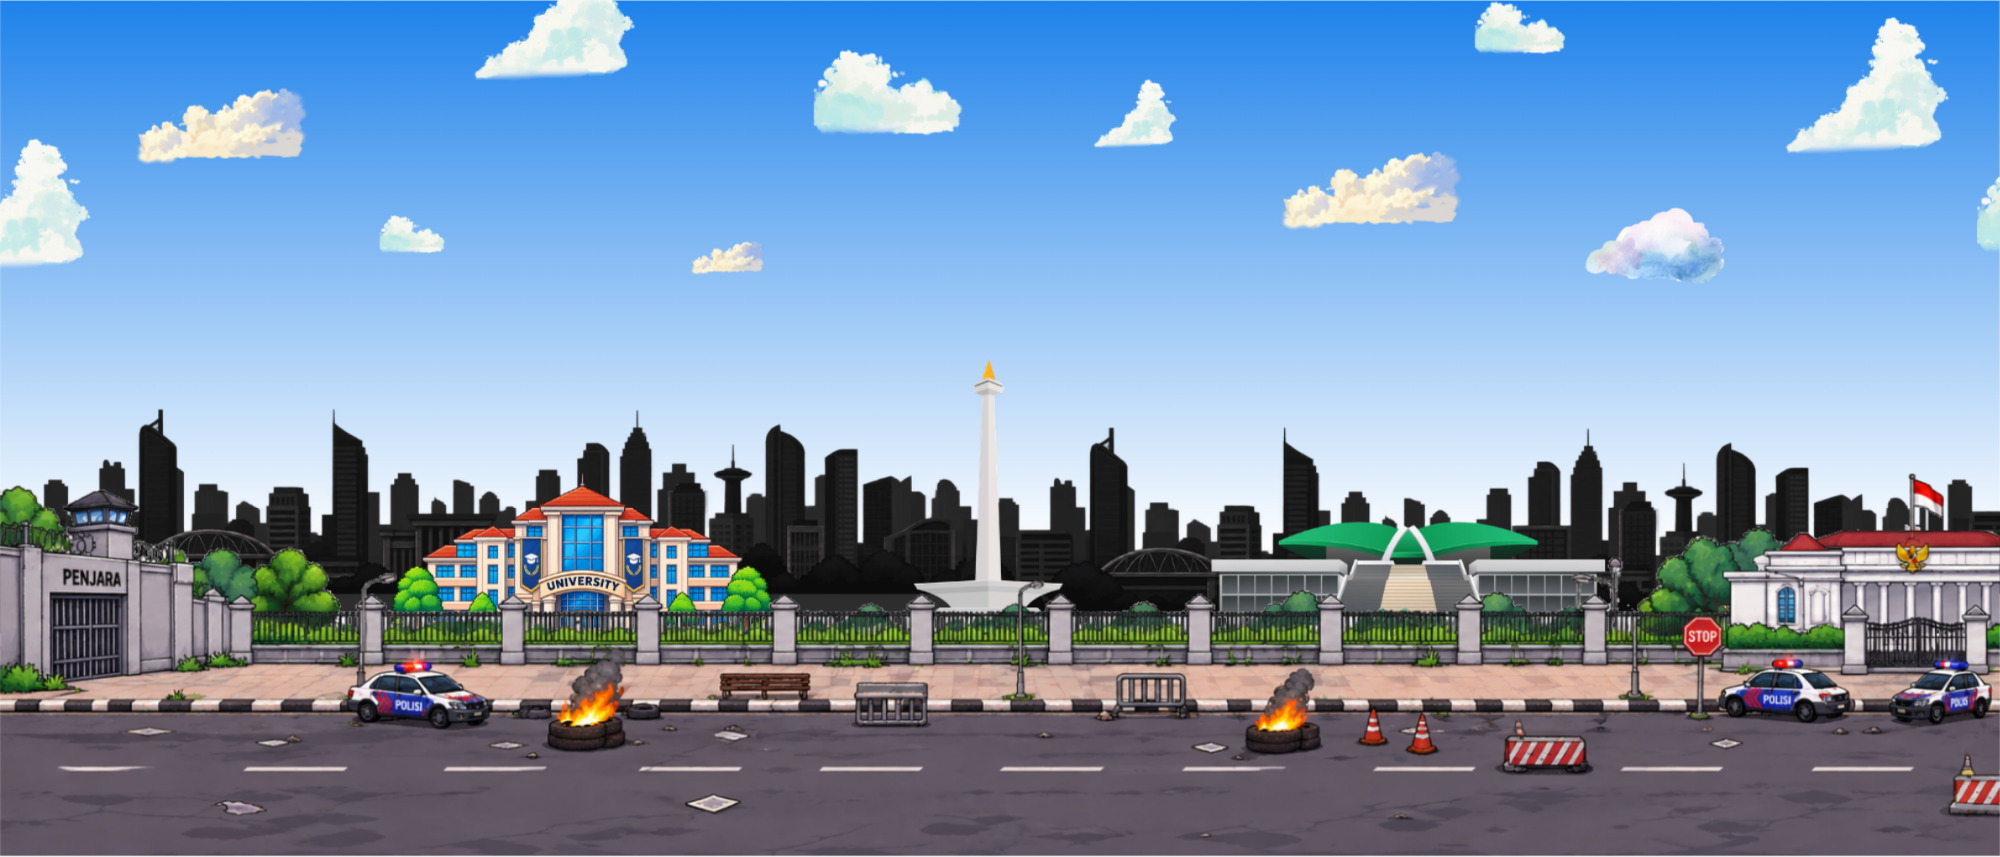
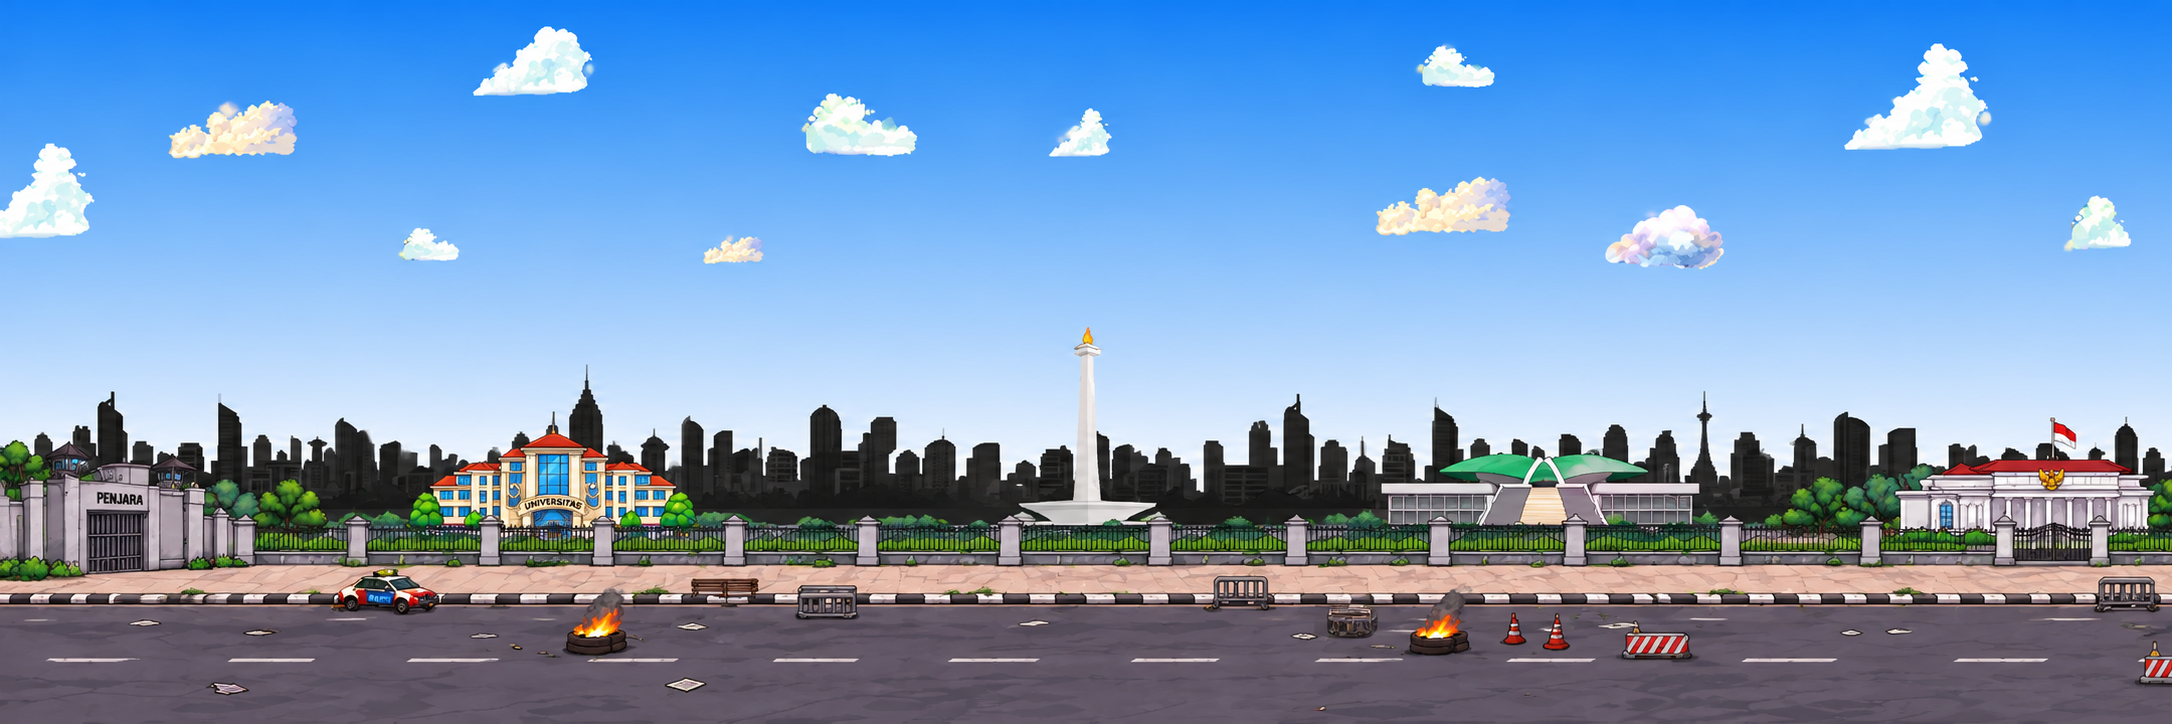
feat: implement 5 continuous panorama stages (bg-1 to bg-5) with dynamic camera tracking and landmark indicators

diff --git a/src/components/Arena.tsx b/src/components/Arena.tsx
@@ -3,6 +3,22 @@ import { VIPS, type Vip } from '../data'
 import { useGame } from '../store'
 import VipAvatar from './VipAvatar'
 
+// Daftar 5 background panoramik dari Barat (Penjara) hingga Timur (Istana Negara)
+const BG_STAGES = [
+  { id: 'bg-1', name: 'Penjara', src: '/assets/backgrounds/bg-1.png' },
+  { id: 'bg-2', name: 'Universitas', src: '/assets/backgrounds/bg-2.png' },
+  { id: 'bg-3', name: 'Silang Monas', src: '/assets/backgrounds/bg-3.png' },
+  { id: 'bg-4', name: 'Gedung DPR / MPR', src: '/assets/backgrounds/bg-4.png' },
+  { id: 'bg-5', name: 'Istana Negara', src: '/assets/backgrounds/bg-5.png' },
+]
+
+// Dimensi matematika dunia horizontal:
+// Setiap panel 2000x857 pada tinggi 288px memiliki lebar alami 288 * (2000/857) = 672px
+const PANEL_WIDTH = 672
+const TOTAL_WORLD_WIDTH = PANEL_WIDTH * 5 // 3360px
+const VIEWPORT_WIDTH = 540
+const MAX_SCROLL = TOTAL_WORLD_WIDTH - VIEWPORT_WIDTH // 2820px
+
 const MAHASISWA_SPRITES = {
   merah: '/assets/characters/mahasiswa-merah.png',
   biru: '/assets/characters/mahasiswa-biru.png',
@@ -13,7 +29,7 @@ const POLISI_SPRITE = '/assets/characters/polisi-w-tameng.png'
 interface MahasiswaSpec {
   id: string
   sprite: string
-  /** Jarak sisi kanan gambar (bagian depan mahasiswa) dari titik bentrok (px) */
+  /** Jarak sisi kanan gambar dari titik bentrok (px) */
   right: number
   /** Posisi vertikal kaki dari bawah arena (px) */
   bottom: number
@@ -43,28 +59,27 @@ interface PolisiSpec {
   brightness: number
   /** Delay animasi dorong */
   delay: number
-  /** Jarak dorongan maju ke kiri (px, bernilai negatif) */
+  /** Jarak dorongan maju ke kiri (px) */
   lunge: number
 }
 
 // Barisan Mahasiswa (Kiri -> mendorong ke Kanan, menghadap kanan)
-// Disusun 3 lapis kedalaman (Belakang, Tengah, Depan) agar tampak berbaris rapat
 const MAHASISWA_UNITS: MahasiswaSpec[] = [
-  // Lapis Belakang (barisan ke-3 di sisi dalam jalan)
+  // Lapis Belakang
   { id: 'm-b1', sprite: MAHASISWA_SPRITES.hijau, right: 10, bottom: 26, height: 112, z: 10, brightness: 0.76, delay: 0.05, lunge: 9 },
   { id: 'm-b2', sprite: MAHASISWA_SPRITES.merah, right: 48, bottom: 28, height: 106, z: 10, brightness: 0.76, delay: 0.14, lunge: 8 },
   { id: 'm-b3', sprite: MAHASISWA_SPRITES.biru, right: 86, bottom: 26, height: 108, z: 10, brightness: 0.74, delay: 0.22, lunge: 7 },
   { id: 'm-b4', sprite: MAHASISWA_SPRITES.hijau, right: 122, bottom: 28, height: 112, z: 10, brightness: 0.72, delay: 0.3, lunge: 6 },
   { id: 'm-b5', sprite: MAHASISWA_SPRITES.merah, right: 164, bottom: 26, height: 106, z: 10, brightness: 0.7, delay: 0.38, lunge: 6 },
 
-  // Lapis Tengah (barisan ke-2)
+  // Lapis Tengah
   { id: 'm-m1', sprite: MAHASISWA_SPRITES.biru, right: -2, bottom: 14, height: 116, z: 20, brightness: 0.88, delay: 0.02, lunge: 11 },
   { id: 'm-m2', sprite: MAHASISWA_SPRITES.hijau, right: 30, bottom: 15, height: 122, z: 20, brightness: 0.88, delay: 0.1, lunge: 10 },
   { id: 'm-m3', sprite: MAHASISWA_SPRITES.merah, right: 72, bottom: 14, height: 116, z: 20, brightness: 0.86, delay: 0.18, lunge: 9 },
   { id: 'm-m4', sprite: MAHASISWA_SPRITES.biru, right: 110, bottom: 15, height: 116, z: 20, brightness: 0.84, delay: 0.26, lunge: 8 },
   { id: 'm-m5', sprite: MAHASISWA_SPRITES.hijau, right: 146, bottom: 14, height: 120, z: 20, brightness: 0.82, delay: 0.34, lunge: 7 },
 
-  // Lapis Depan (ujung tombak bentrokan langsung dengan tameng polisi)
+  // Lapis Depan
   { id: 'm-f1', sprite: MAHASISWA_SPRITES.merah, right: -8, bottom: 2, height: 124, z: 32, brightness: 1, delay: 0, lunge: 13 },
   { id: 'm-f2', sprite: MAHASISWA_SPRITES.biru, right: 24, bottom: 2, height: 122, z: 31, brightness: 1, delay: 0.07, lunge: 11 },
   { id: 'm-f3', sprite: MAHASISWA_SPRITES.hijau, right: 56, bottom: 3, height: 128, z: 30, brightness: 0.98, delay: 0.15, lunge: 10 },
@@ -73,7 +88,6 @@ const MAHASISWA_UNITS: MahasiswaSpec[] = [
 ]
 
 // Barisan Polisi Bertameng (Kanan -> menahan & mendorong ke Kiri, menghadap kiri)
-// Catatan: sprite polisi memiliki ruang transparan ~32px di depan tameng, sehingga left: -34 menempatkan tameng tepat di x = 0
 const POLISI_UNITS: PolisiSpec[] = [
   // Lapis Belakang
   { id: 'p-b1', left: -14, bottom: 26, height: 108, z: 11, brightness: 0.74, delay: 0.05, lunge: -8 },
@@ -89,7 +103,7 @@ const POLISI_UNITS: PolisiSpec[] = [
   { id: 'p-m4', left: 78, bottom: 15, height: 114, z: 19, brightness: 0.84, delay: 0.26, lunge: -7 },
   { id: 'p-m5', left: 112, bottom: 14, height: 114, z: 18, brightness: 0.82, delay: 0.34, lunge: -6 },
 
-  // Lapis Depan (dinding barikade tameng utama)
+  // Lapis Depan
   { id: 'p-f1', left: -34, bottom: 1, height: 122, z: 33, brightness: 1, delay: 0, lunge: -12 },
   { id: 'p-f2', left: 0, bottom: 1, height: 122, z: 31, brightness: 1, delay: 0.07, lunge: -10 },
   { id: 'p-f3', left: 34, bottom: 2, height: 122, z: 30, brightness: 0.98, delay: 0.15, lunge: -9 },
@@ -99,7 +113,7 @@ const POLISI_UNITS: PolisiSpec[] = [
 
 function VipColumn({ side, panic }: { side: 'opp' | 'gov'; panic: boolean }) {
   const list = VIPS.filter((v) => v.side === side)
-  const pos = side === 'opp' ? { left: '1.2%' } : { right: '1.2%' }
+  const pos = side === 'opp' ? { left: '1.5%' } : { right: '1.5%' }
   return (
     <div
       className="absolute top-2 bottom-7 z-40 flex flex-col justify-around items-center pointer-events-none"
@@ -113,7 +127,7 @@ function VipColumn({ side, panic }: { side: 'opp' | 'gov'; panic: boolean }) {
           transition={{ repeat: Infinity, duration: panic ? 0.25 : 2 }}
         >
           <VipAvatar vip={v} size={36} />
-          <div className="text-[8px] font-bold text-center leading-none mt-0.5 bg-black/75 border border-white/20 rounded px-1 py-0.5">
+          <div className="text-[8px] font-bold text-center leading-none mt-0.5 bg-black/80 border border-white/20 rounded px-1 py-0.5 shadow">
             {v.name.split(' ').slice(-1)[0]}
           </div>
         </motion.div>
@@ -237,35 +251,63 @@ function Formation() {
   )
 }
 
+const getLocation = (line: number) => {
+  if (line < 18) return { name: 'Penjara (Oposisi Terdesak!)', tag: '🔒 PENJARA' }
+  if (line < 38) return { name: 'Kampus Universitas', tag: '🎓 KAMPUS' }
+  if (line < 62) return { name: 'Silang Monas (Bentrokan Pusat)', tag: '🏛 MONAS' }
+  if (line < 82) return { name: 'Gedung DPR / MPR', tag: '🏛 GEDUNG DPR' }
+  return { name: 'Istana Negara (Pemerintah Terdesak!)', tag: '👑 ISTANA NEGARA' }
+}
+
 export default function Arena() {
   const { line, tapFx } = useGame()
-  const clash = 18 + line * 0.64 // posisi bentrokan dalam kontainer 150%
+
+  // Posisi kamera (geser horizon 0 s/d 2820px) mengikuti garis 0 s/d 100
+  const cameraX = (line / 100) * MAX_SCROLL
+
+  // Titik bentrokan di dalam dunia panjang (bergerak dari x=270 di Penjara ke x=3090 di Istana)
+  const clashX = 270 + cameraX
+
   const panicGov = line > 70
   const panicOpp = line < 30
+  const location = getLocation(line)
 
   return (
     <div className="h-full relative overflow-hidden bg-sky-300">
-      {/* Dunia Arena 150% Lebar Layar dengan Background Jalanan Kota */}
+      {/* Tokoh VIP di Sisi Kiri & Kanan Layar (Pinned Commander Pillars) */}
+      <VipColumn side="opp" panic={panicOpp} />
+      <VipColumn side="gov" panic={panicGov} />
+
+      {/* Dunia Arena Panjang (3360px) Berisi 5 Background Panoramik Bersambung */}
       <motion.div
-        className="absolute inset-y-0 left-0 bg-no-repeat"
-        style={{
-          width: '150%',
-          backgroundImage: "url('/assets/backgrounds/bg.png')",
-          backgroundSize: 'cover',
-          backgroundPosition: 'center bottom',
-        }}
-        animate={{ x: `${-(line / 100) * 33.333}%` }}
-        transition={{ type: 'spring', stiffness: 60, damping: 16 }}
+        className="absolute inset-y-0 left-0"
+        style={{ width: TOTAL_WORLD_WIDTH }}
+        animate={{ x: -cameraX }}
+        transition={{ type: 'spring', stiffness: 55, damping: 16 }}
       >
-        {/* Tokoh VIP di Belakang Barisan Kiri & Kanan */}
-        <VipColumn side="opp" panic={panicOpp} />
-        <VipColumn side="gov" panic={panicGov} />
+        {/* Rangkaian 5 Background: Penjara -> Kampus -> Monas -> DPR -> Istana */}
+        <div className="flex h-full select-none" style={{ width: TOTAL_WORLD_WIDTH }}>
+          {BG_STAGES.map((bg) => (
+            <img
+              key={bg.id}
+              src={bg.src}
+              alt={bg.name}
+              draggable={false}
+              className="h-full block select-none pointer-events-none shrink-0"
+              style={{
+                width: PANEL_WIDTH,
+                objectFit: 'cover',
+                objectPosition: 'center bottom',
+              }}
+            />
+          ))}
+        </div>
 
         {/* Titik Bentrokan Barisan Mahasiswa vs Polisi Bertameng */}
         <motion.div
           className="absolute bottom-[3%]"
-          animate={{ left: `${clash}%` }}
-          transition={{ type: 'spring', stiffness: 80, damping: 14 }}
+          style={{ left: clashX }}
+          transition={{ type: 'spring', stiffness: 75, damping: 14 }}
         >
           <Formation />
 
@@ -297,10 +339,14 @@ export default function Arena() {
         </motion.div>
       </motion.div>
 
-      {/* Label Indikator Arah Dorongan di Bawah Jalan */}
-      <div className="absolute bottom-1 inset-x-3 z-40 flex justify-between text-[9px] text-white/85 font-bold drop-shadow">
-        <span className="bg-black/45 px-1.5 py-0.5 rounded">◀ Desak ke Kiri (Pemerintah)</span>
-        <span className="bg-black/45 px-1.5 py-0.5 rounded">Desak ke Kanan (Oposisi) ▶</span>
+      {/* Bar Indikator Lokasi & Navigasi Arah Dorongan di Bawah Layar */}
+      <div className="absolute bottom-1 inset-x-2 z-40 flex items-center justify-between text-[9px] text-white/90 font-bold drop-shadow pointer-events-none">
+        <span className="bg-black/60 px-1.5 py-0.5 rounded border border-blue-500/40">◀ Penjara</span>
+        <span className="bg-black/80 px-2 py-0.5 rounded-full border border-yellow-400/60 text-yellow-300 shadow flex items-center gap-1">
+          <span>📍</span>
+          <span>{location.name}</span>
+        </span>
+        <span className="bg-black/60 px-1.5 py-0.5 rounded border border-red-500/40">Istana ▶</span>
       </div>
     </div>
   )

diff --git a/PROGRESS.md b/PROGRESS.md
@@ -41,10 +41,19 @@ Game interaktif vertikal 9:16 untuk TikTok Live berbasis *1D Horizontal Tug-of-W
    - Baris 2: Barometer dinamis persentase dorongan (`X% OPOSISI |⚡| Y% PEMERINTAH`).
    - Baris 3: Marquee merah komentar Pemerintah (`2 ...`) reverse direction.
 4. **Zona 4: Arena Bentrokan Kiri vs Kanan (30%) - `src/components/Arena.tsx`**
-   - Lebar dunia arena dibuat **150%** dari lebar layar dengan *Dynamic Sliding Camera* yang bergeser mengikuti garis dorongan.
-   - 6 Tokoh VIP berdiri di barisan belakang (Windah, Pandji, Ferry di kiri; Prabowo, Teddy, Bahlil di kanan). VIP panik/gemetar ketika barisan kubunya terdesak (>70% atau <30%).
-   - Barisan massa pendemo (bendera/toa) beradu fisik dengan barisan polisi huru-hara berperisai (riot shield).
-   - Efek visual status: Status Kebal (Shield Teddy), Lemah (Debuff Pandji), Lambat (Slow Bahlil).
+   - **Panorama 5 Landmark Bersambung (3360px):** Menggunakan 5 background horizontal berurutan:
+     - `bg-1.png`: **Penjara** (Kubu Oposisi terdesak / kalah)
+     - `bg-2.png`: **Kampus Universitas** (Basis mahasiswa pendemo)
+     - `bg-3.png`: **Silang Monas** (Titik awal bentrokan pusat 50%)
+     - `bg-4.png`: **Gedung DPR / MPR** (Basis kebijakan pemerintah)
+     - `bg-5.png`: **Istana Negara** (Kubu Pemerintah terdesak / kalah)
+   - Kamera meluncur dinamis (*smooth spring camera*) mengikuti pergeseran garis dorongan dari Penjara (0%) hingga Istana Negara (100%).
+   - Indikator lokasi real-time di bawah arena (`📍 Silang Monas`, `📍 Gedung DPR`, dst.).
+   - **Formasi Pasukan Berlapis:**
+     - 15 Personel Mahasiswa (Jaket Merah, Biru, Hijau) berbaris rapat 3 lapis mendorong ke kanan.
+     - 15 Personel Polisi Bertameng (`polisi-w-tameng.png`) dalam formasi barikade tameng rapat menahan dorongan ke kiri.
+     - Efek bentrokan partikel 💥, kepulan debu aspal 💨, dan bayangan pijakan 2.5D.
+   - 6 Tokoh VIP tersemat sebagai *Commander Pillars* di sudut kiri dan kanan layar, bereaksi panik/gemetar saat kubunya terdesak (>70% atau <30%).
    - Animasi floating avatar/like kecil saat penonton melakukan tap-tap layar.
 5. **Zona 5: HUD Bawah (30%) - `src/components/Hud.tsx`**
    - Sisi Kiri (60%): Latar gelap anti-tabrakan komentar TikTok, menampilkan katalog ringkas harga gift serta Leaderboard Top 3 MVP Gifter.
